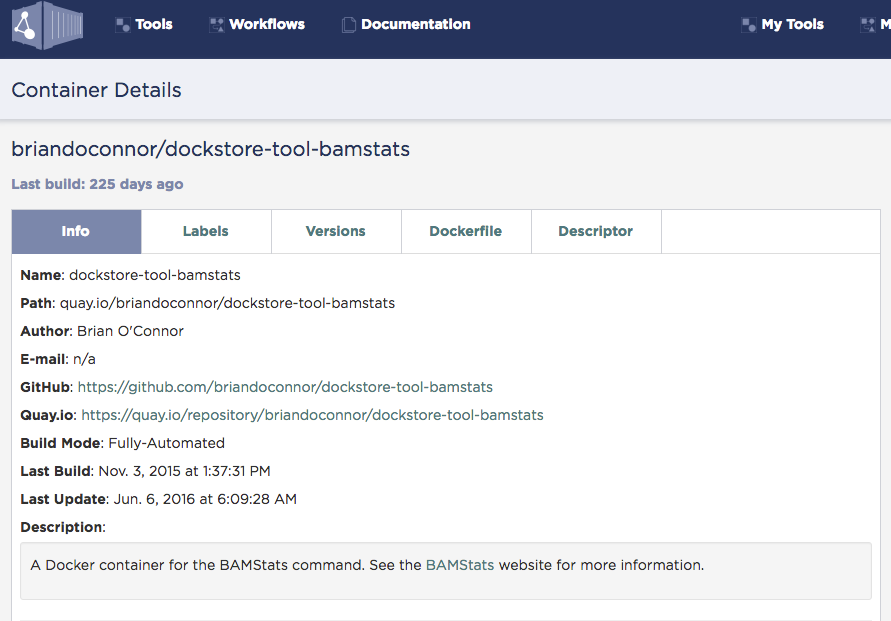
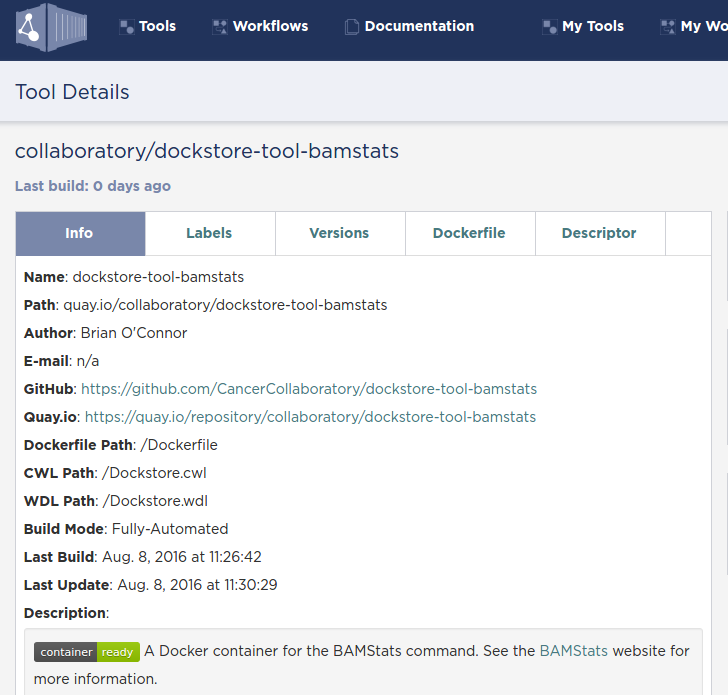
Update to new location of tutorial (#75)

diff --git a/app/views/onboarding.html b/app/views/onboarding.html
@@ -118,7 +118,7 @@ server-url: {{dsServerURI}}</div>
             <code>pip --version</code>
           </li>
           <li>
-            Run these commands to install cwltool <code>pip install setuptools==24.0.3</code><br><code>pip install cwl-runner cwltool==1.0.20160316150250 schema-salad==1.7.20160316150109 avro==1.7.7</code>
+            Run these commands to install cwltool <code>pip install setuptools==24.0.3</code><br><code>pip install cwl-runner cwltool==1.0.20160712154127 schema-salad==1.14.20160708181155 avro==1.8.1</code>
           </li>
           <li>
             Run this to verify that cwltool has been installed properly

diff --git a/app/docs/getting-started-with-cwl.md b/app/docs/getting-started-with-cwl.md
@@ -15,28 +15,28 @@ It is recommended that you have the following minimum fields:
     dct:creator:
       foaf:name: <name>
 
-Again, we provide an example from the [dockstore-tool-bamstats](https://github.com/briandoconnor/dockstore-tool-bamstats) repository:
+Again, we provide an example from the [dockstore-tool-bamstats](https://github.com/CancerCollaboratory/dockstore-tool-bamstats) repository:
 
     #!/usr/bin/env cwl-runner
     
     class: CommandLineTool
     id: "BAMStats"
     label: "BAMStats tool"
-    cwlVersion: v1.0
+    cwlVersion: v1.0 
     description: |
-        ![build_status](https://quay.io/repository/briandoconnor/dockstore-tool-bamstats/status)
+        ![build_status](https://quay.io/repository/collaboratory/dockstore-tool-bamstats/status)
         A Docker container for the BAMStats command. See the [BAMStats](http://bamstats.sourceforge.net/) website for more information.
         ```
         Usage:
         # fetch CWL
-        $> dockstore tool cwl --entry quay.io/briandoconnor/dockstore-tool-bamstats:1.25-5 > Dockstore.cwl
+        $> dockstore tool cwl --entry quay.io/collaboratory/dockstore-tool-bamstats:1.25-5 > Dockstore.cwl
         # make a runtime JSON template and edit it (or use the content of sample_configs.json in this git repo)
         $> dockstore tool convert cwl2json --cwl Dockstore.cwl > Dockstore.json
         # run it locally with the Dockstore CLI
-        $> dockstore tool launch --entry quay.io/briandoconnor/dockstore-tool-bamstats:1.25-5 \
+        $> dockstore tool launch --entry quay.io/collaboratory/dockstore-tool-bamstats:1.25-5 \
             --json Dockstore.json
         ```
-    
+
     dct:creator:
       "@id": "http://orcid.org/0000-0002-7681-6415"
       foaf:name: Brian O'Connor
@@ -44,7 +44,7 @@ Again, we provide an example from the [dockstore-tool-bamstats](https://github.c
     
     requirements:
       - class: DockerRequirement
-        dockerPull: "quay.io/briandoconnor/dockstore-tool-bamstats:1.25-6"
+        dockerPull: "quay.io/collaboratory/dockstore-tool-bamstats:1.25-6"
     
     hints:
       - class: ResourceRequirement
@@ -109,7 +109,7 @@ This section includes the tool author referenced by Dockstore. It is open to you
 ```
 requirements:
   - class: DockerRequirement
-    dockerPull: "quay.io/briandoconnor/dockstore-tool-bamstats:1.25-3"
+    dockerPull: "quay.io/collaboratory/dockstore-tool-bamstats:1.25-3"
 ```
 
 This section links the Docker image used to this CWL.  Notice it's exactly the same as the `-t` you used when building your image.
@@ -140,7 +140,7 @@ This may or may not be honoured by the tool calling this CWL but at least it giv
         inputBinding:
           position: 2
 
-This is one of the items from the inputs section.  Notice a few things, first, the `#bam_input` matches with `bam_input` in the sample parameterization JSON.
+This is one of the items from the inputs section.  Notice a few things, first, the `bam_input:` matches with `bam_input` in the sample parameterization JSON.
 Also, you can control the position of the variable, it can have a type (int or File here), and, for tools that require a prefix (`--prefix`) before a
 parameter you can use the `prefix` key:value in the inputBindings section.
 
@@ -305,7 +305,7 @@ tag and also my CWL file.  GitHub makes it very easy to release:
 
 ![Release](docs/release.png)
 
-I click on "releases" in my GitHub project [page](https://github.com/briandoconnor/dockstore-tool-bamstats) and then follow the directions to create a new release. Simple as that!
+I click on "releases" in my GitHub project [page](https://github.com/CancerCollaboratory/dockstore-tool-bamstats) and then follow the directions to create a new release. Simple as that!
 
 **Tip:** [HubFlow](https://datasift.github.io/gitflow/) is an excellent way to manage the lifecycle of releases on GitHub.  Take a look!
 
@@ -326,13 +326,13 @@ Log onto Quay now and setup a new repository (click the "+" icon).
 
 ![New Quay Repo](docs/quay_new_repo.png)
 
-You must match the name to what I was using previously, so in this case it's `briandoconnor` / `dockstore-tool-bamstats`.  Also, Dockstore will
+You must match the name to what I was using previously, so in this case it's `CancerCollaboratory` / `dockstore-tool-bamstats`.  Also, Dockstore will
 only work with `Public` repositories currently.
 Notice I'm selecting "Link to a GitHub Repository Push", this is because we want Quay to automatically build our Docker image
 every time we update the repository on GitHub.  Very slick!
 
 It will automatically prompt you to setup a "build trigger" after GitHub authenticates you.  Here I select the GitHub repo
-for `briandoconnor/dockstore-tool-bamstats`.
+for `CancerCollaboratory/dockstore-tool-bamstats`.
 
 ![Build Trigger](docs/build_trigger.png)
 

diff --git a/app/docs/getting-started-with-docker.md b/app/docs/getting-started-with-docker.md
@@ -10,7 +10,7 @@ Docker is a fantastic tool for creating light-weight containers to run your tool
 0. use the release process on GitHub or Bitbucket to make distinct release tags
 0. setup Quay.io (or Docker Hub) to automatically build your Docker image
 
-See the [dockstore-tool-bamstats](https://github.com/briandoconnor/dockstore-tool-bamstats) repository on GitHub which we created as an example. This is linked to the quay.io repository at [dockstore-tool-bamstats](https://quay.io/repository/briandoconnor/dockstore-tool-bamstats).
+See the [dockstore-tool-bamstats](https://github.com/CancerCollaboratory/dockstore-tool-bamstats) repository on GitHub which we created as an example. This is linked to the quay.io repository at [dockstore-tool-bamstats](https://quay.io/repository/collaboratory/dockstore-tool-bamstats).
 
 For the rest of this tutorial, you may wish to work in your own repository with your own tool or "fork" the repository above into your own GitHub account. 
 
@@ -21,7 +21,7 @@ dependencies of BAMStats along with the executable itself.
 
 ## Creating a Dockerfile
 
-Here's my sample [Dockerfile](https://github.com/briandoconnor/dockstore-tool-bamstats/blob/develop/Dockerfile):
+Here's my sample [Dockerfile](https://github.com/CancerCollaboratory/dockstore-tool-bamstats/blob/develop/Dockerfile):
 
 
     #############################################################
@@ -117,14 +117,14 @@ An important thing to note, this `Dockerfile` just really scratches the surface.
 for a really terrific in-depth look at writing Dockerfiles.
 
 
-Read more on the development process at [https://docs.docker.com...](https://docs.docker.com/). For information on building your Docker image on Quay.io we recommend their [tutorial](https://quay.io/tutorial/).
+Read more on the development process at [https://docs.docker.com](https://docs.docker.com/). For information on building your Docker image on Quay.io we recommend their [tutorial](https://quay.io/tutorial/).
 
 ## Building Docker Images
 
 Now that you've created the `Dockerfile` the next step is to build the image.
 The docker command line is used for this:
 
-    $> docker build -t quay.io/briandoconnor/dockstore-tool-bamstats:1.25-3 .
+    $> docker build -t quay.io/collaboratory/dockstore-tool-bamstats:1.25-3 .
 
 The `.` is the path to the location of the Dockerfile, which is in the same directory here.
 The `-t` parameter is the "tag" that this Docker image will be called locally
@@ -133,8 +133,8 @@ of the tag typically denotes that this was built on Quay.io (which we will see i
 the next section).  I'm manually specifying this tag so it will match the quay.io
 built version.  This allows me to build and test locally then, eventually,
 switch over to the quay.io-built version.  The next part of the tag,
-`briandoconnor/dockstore-tool-bamstats`, denotes the name of the tool which
-is derived from the organization and repository name on GitHub.  Finally `1.25-3`
+`collaboratory/dockstore-tool-bamstats`, denotes the name of the tool which
+is derived from the organization and repository name on Quay.io.  Finally `1.25-3`
 denotes a version string, typically you want to sync that with releases on GitHub.
 In this case I'm working on release `1.25-3` so this is on a release branch.  However
 the most recent release via GitHub is the previous version `1.25-2`.  The
@@ -152,7 +152,7 @@ something like:
 Check that the tool is now in your local Docker image cache:
 
     $> docker images | grep bamstats  
-    quay.io/briandoconnor/dockstore-tool-bamstats   1.25-3  01a7ccf55063   2 minutes ago   538.3 MB
+    quay.io/collaboratory/dockstore-tool-bamstats   1.25-3  01a7ccf55063   2 minutes ago   538.3 MB
 
 Great! This looks fine!
 
@@ -167,7 +167,7 @@ a new tool there might be multiple rounds of `docker build`, followed by tesing 
 the Docker image, launching it as a container (make sure you launch on a host with
 at least 8GB of RAM and dozens of GB of disk space!):
 
-    $> docker run -it -v `pwd`:/home/ubuntu quay.io/briandoconnor/dockstore-tool-bamstats:1.25-3 /bin/bash
+    $> docker run -it -v `pwd`:/home/ubuntu quay.io/collaboratory/dockstore-tool-bamstats:1.25-3 /bin/bash
 
 You'll be dropped into a bash shell which works just like the Linux environments
 you normally work in.  I'll come back to what `-v` is doing in a bit.

diff --git a/app/docs/getting-started.md b/app/docs/getting-started.md
@@ -4,7 +4,7 @@ In this guide we will start with creating a simple Docker-based tool, sharing it
 
 ## Sign Up for Accounts
 
-Dockstore is powered by [Quay.io](https://quay.io/) and [Docker Hub](https://hub.docker.com/), for storing Docker images, and [GitHub](https://github.com/) and [Bitbucket](https://bitbucket.org/) for storing the build file (`Dockerfile`) and metadata descriptor file (`Dockstore.cwl or Dockstore.wdl`) that are used by this site.  Since the Dockstore does not permanently store your Docker images, your Dockerfile, or your Dockstore.cwl metadata file, you are free to use all the excellent features of Quay.io/Docker Hub and GitHub/Bitbucket.  If you are already using these services then you will appreciate the fact that registering your Docker images on Dockstore is extremely easy and requires very little interruption to the way you work already.  For those of you that use [Docker Hub](https://hub.docker.com/), an extremely popular Docker registry, we are planning on adding enhanced support for features in the near future.  For now, we recommend users of Dockstore sign up for both Quay.io and GitHub/Bitbucket accounts to host their Docker images and build/metadata files respectively.  Partial support for Docker Hub is available, but it requires manual entry of image and tag data on Dockstore. If you are already building your Docker images on Docker Hub automatically it takes just minutes to setup a comparable build on Quay.io.
+Dockstore is powered by [Quay.io](https://quay.io/) and [Docker Hub](https://hub.docker.com/), for storing Docker images, and [GitHub](https://github.com/) and [Bitbucket](https://bitbucket.org/) for storing the build file (`Dockerfile`) and metadata descriptor file (`Dockstore.cwl` or `Dockstore.wdl`) that are used by this site.  Since the Dockstore does not permanently store your Docker images, your Dockerfile, or your Dockstore.cwl metadata file, you are free to use all the excellent features of Quay.io/Docker Hub and GitHub/Bitbucket.  If you are already using these services then you will appreciate the fact that registering your Docker images on Dockstore is extremely easy and requires very little interruption to the way you work already.  For those of you that use [Docker Hub](https://hub.docker.com/), an extremely popular Docker registry, we are planning on adding enhanced support for features in the near future.  For now, we recommend users of Dockstore sign up for both Quay.io and GitHub/Bitbucket accounts to host their Docker images and build/metadata files respectively.  Partial support for Docker Hub is available, but it requires manual entry of image and tag data on Dockstore. If you are already building your Docker images on Docker Hub automatically it takes just minutes to setup a comparable build on Quay.io.
 
 * [Sign up for an account on GitHub...](https://github.com/) (Required for authentication.)
 * [Sign up for an account on Bitbucket...](https://bitbucket.org/) (Optional)
@@ -16,12 +16,12 @@ Dockstore is powered by [Quay.io](https://quay.io/) and [Docker Hub](https://hub
 When going through the onboarding wizard, our various dependencies were introduced. Verify that they are properly installed by opening a terminal and executing the following. You should see very similar output. If there are errors make sure you follow the setup instructions carefully:
 
     $> java -version
-    java version "1.8.0_91"
-    Java(TM) SE Runtime Environment (build 1.8.0_91-b14)
-    Java HotSpot(TM) 64-Bit Server VM (build 25.91-b14, mixed mode)
+    java version "1.8.0_101"
+    Java(TM) SE Runtime Environment (build 1.8.0_101-b13)
+    Java HotSpot(TM) 64-Bit Server VM (build 25.101-b13, mixed mode)
 
     $> docker --version
-    Docker version 1.11.1, build 5604cbe
+    Docker version 1.12.0, build 8eab29e
 
     $> cwltool --version
     /usr/local/bin/cwltool 1.0.20160712154127

diff --git a/app/docs/launch.md b/app/docs/launch.md
@@ -13,11 +13,7 @@ Now that you have a tool registered on Dockstore you may want to test it out for
   0. if outputs are specified as remote URLs, copy the results to these locations
 0. download tool descriptor files `dockstore tool cwl` and `dockstore tool wdl`
 
-Note that launching a CWL tool locally requires the cwltool to be installed. To install the version that we have tested with, run the following in Ubuntu
-
-    pip install --user cwl-runner cwltool==1.0.20160323212343 schema-salad==1.7.20160316203940 avro==1.7.7
-
-You may need to install pip as well. 
+Note that launching a CWL tool locally requires the cwltool to be installed. Check [onboarding](onboarding) if you have not already to ensure that your dependencies are correct. 
 
 ## Launch Workflows
 

diff --git a/app/docs/getting-started-with-dockstore.md b/app/docs/getting-started-with-dockstore.md
@@ -40,7 +40,7 @@ For the tutorial, generally, you should hit the "Refresh All Tools" button to ma
                   
  ![Refresh](docs/dockstore_refresh.png)
                   
-Now select the `briandoconnor/dockstore-tool-bamstats` repository and click "Publish".  The tool is now listed on Dockstore!
+Now select the `collaboratory/dockstore-tool-bamstats` repository and click "Publish".  The tool is now listed on Dockstore!
                   
 ![Publish](docs/publish.png)
                   
